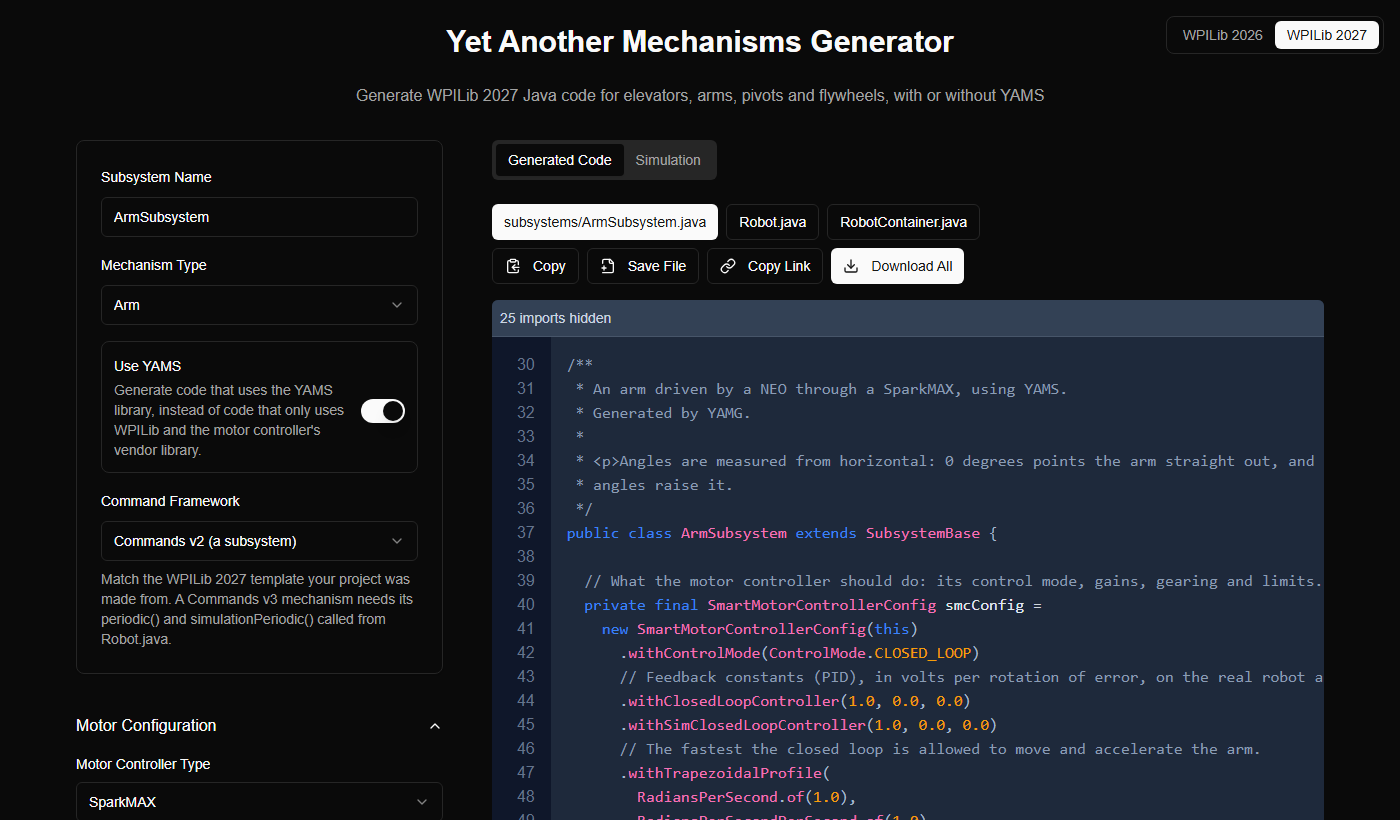
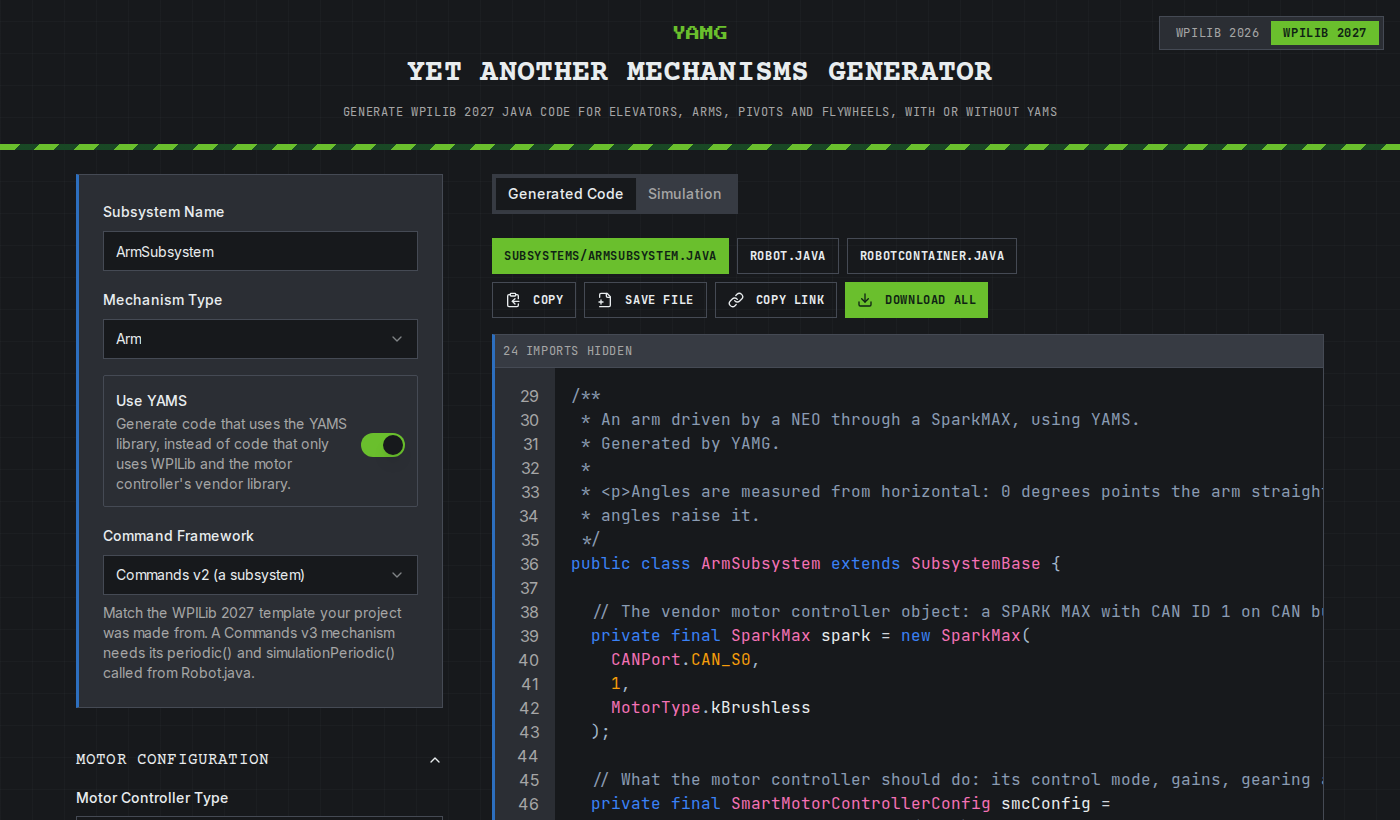
Update the YAMG screenshot to its YASS style

diff --git a/README.md b/README.md
@@ -64,7 +64,7 @@ YAMS maven artifacts are served from `https://cdn.yassrobotics.com/`.
 
 The quickest way to get started is [YAMG](https://yamg.yassrobotics.com/), the Yet Another Mechanisms Generator. Fill in a form about your mechanism and it writes the code for you, ready to copy into your project.
 
-<figure><img src=".gitbook/assets/yamg.png" alt="The YAMG website generating an arm. On the left, the form: subsystem name ArmSubsystem, mechanism type Arm, Use YAMS turned on, Commands v2, and the motor configuration with a SparkMAX and a NEO. On the right, the generated ArmSubsystem.java with its SmartMotorControllerConfig, in tabs next to Robot.java and RobotContainer.java, with Copy, Save File, Copy Link and Download All buttons. A WPILib 2026 and WPILib 2027 toggle is at the top right."><figcaption><p>YAMG generating an arm with YAMS.</p></figcaption></figure>
+<figure><img src=".gitbook/assets/yamg.png" alt="The YAMG website, in the YASS style, generating an arm. On the left, the form: subsystem name ArmSubsystem, mechanism type Arm, Use YAMS turned on, Commands v2, and the motor configuration with a SparkMAX and a NEO. On the right, the generated ArmSubsystem.java with its SparkMax and SmartMotorControllerConfig, in tabs next to Robot.java and RobotContainer.java, with Copy, Save File, Copy Link and Download All buttons. A WPILib 2026 and WPILib 2027 toggle is at the top right."><figcaption><p>YAMG generating an arm with YAMS.</p></figcaption></figure>
 
 1. Pick your WPILib version with the toggle at the top right: 2027, or 2026 for a 2026 project.
 2. Turn on **Use YAMS**. Without it, YAMG writes code that uses only WPILib and the motor controller's vendor library.
